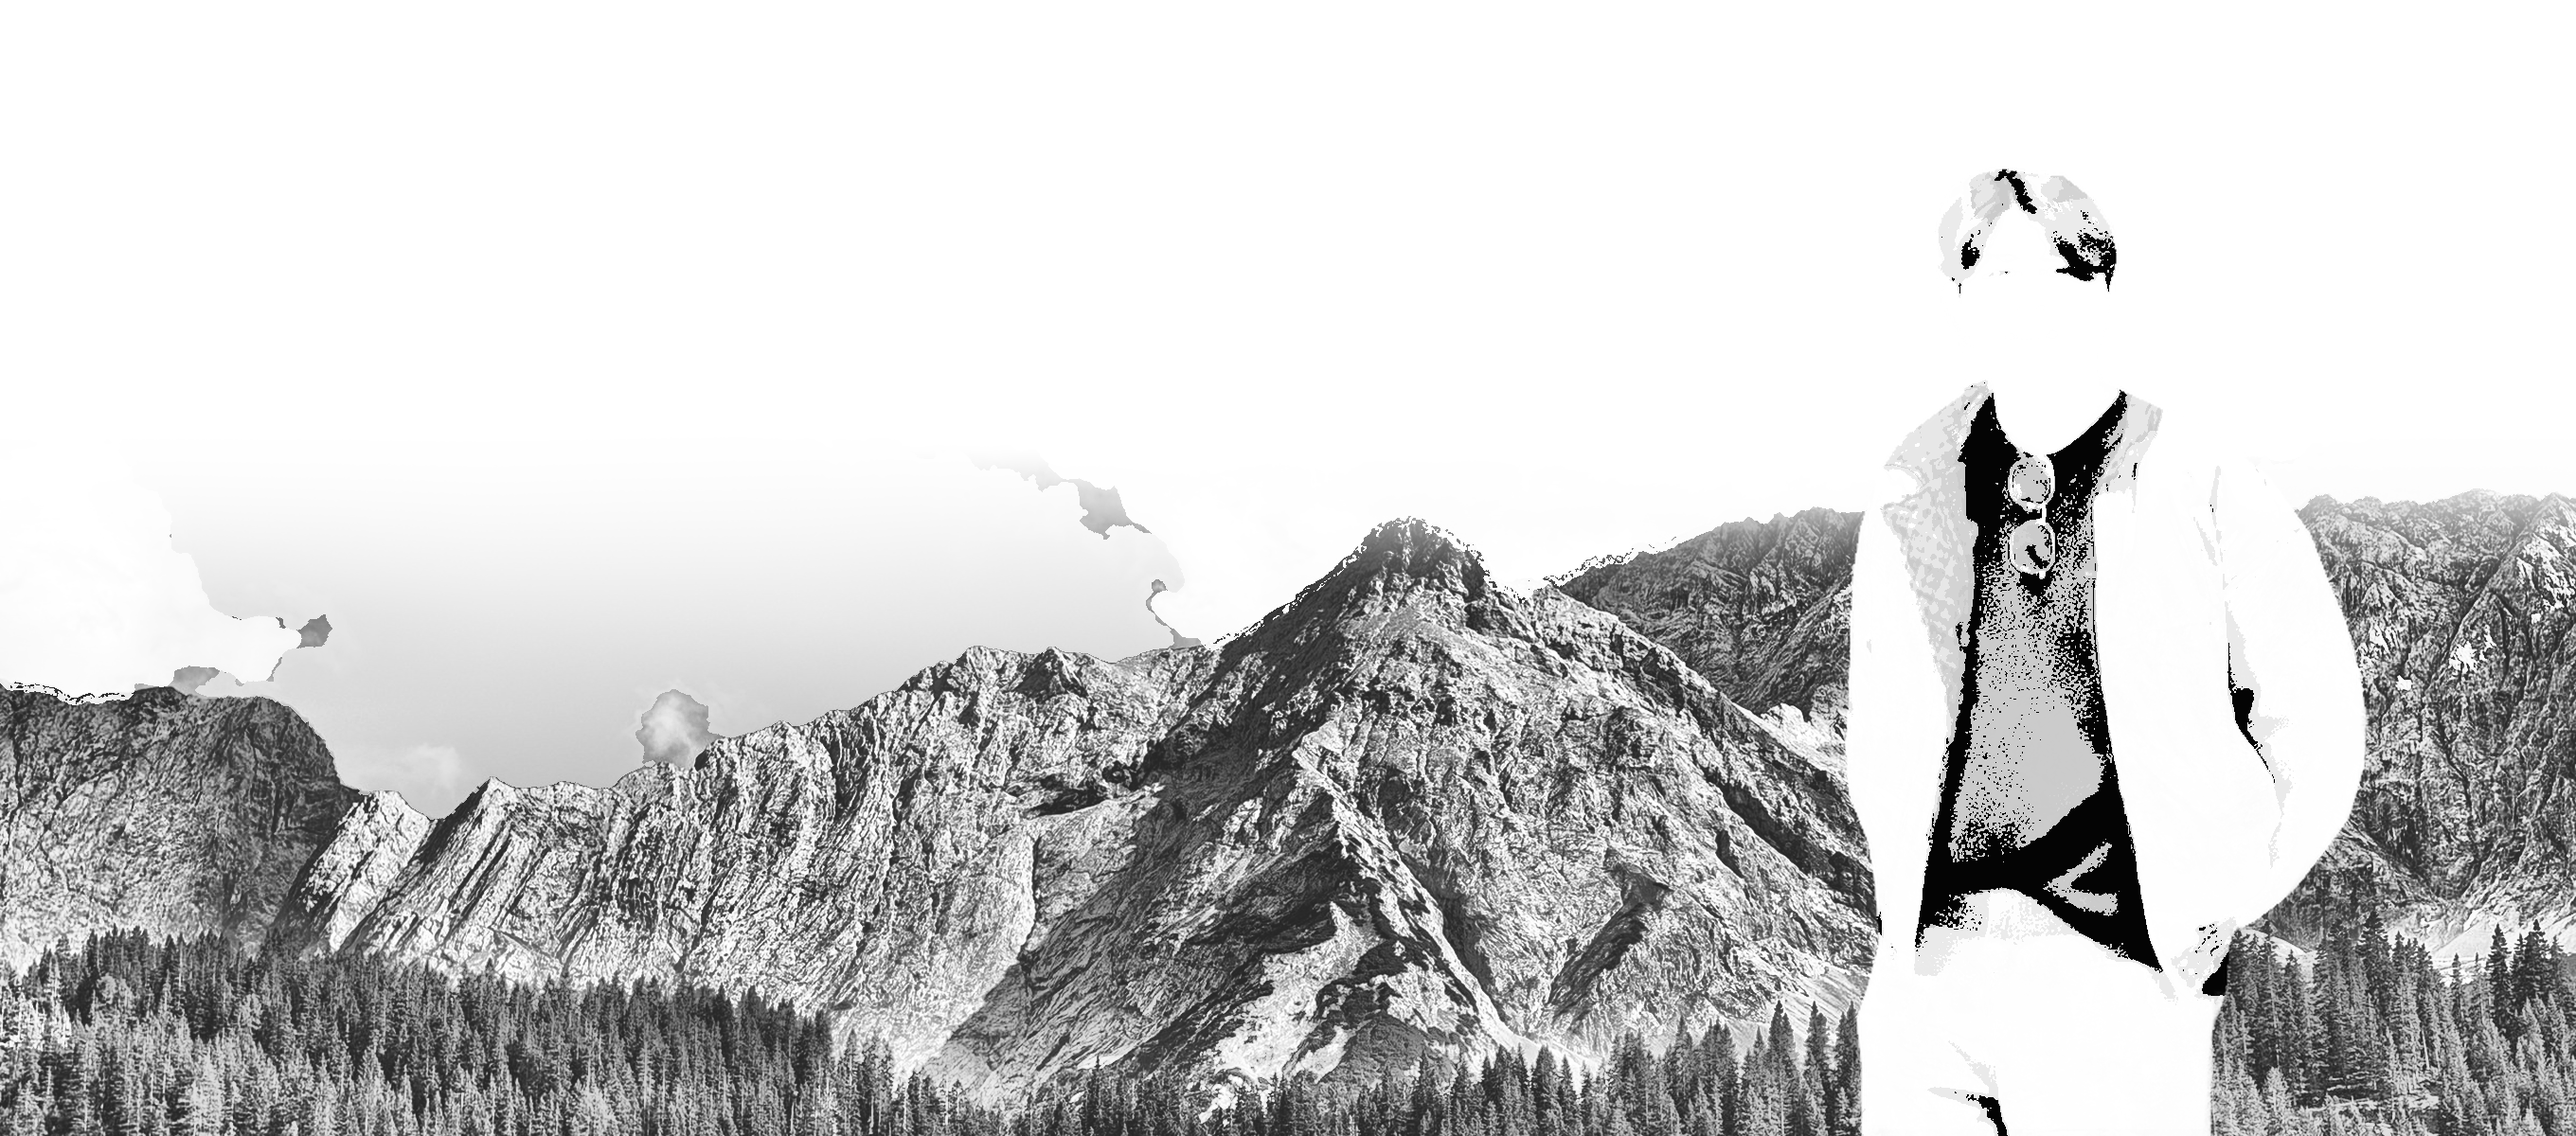
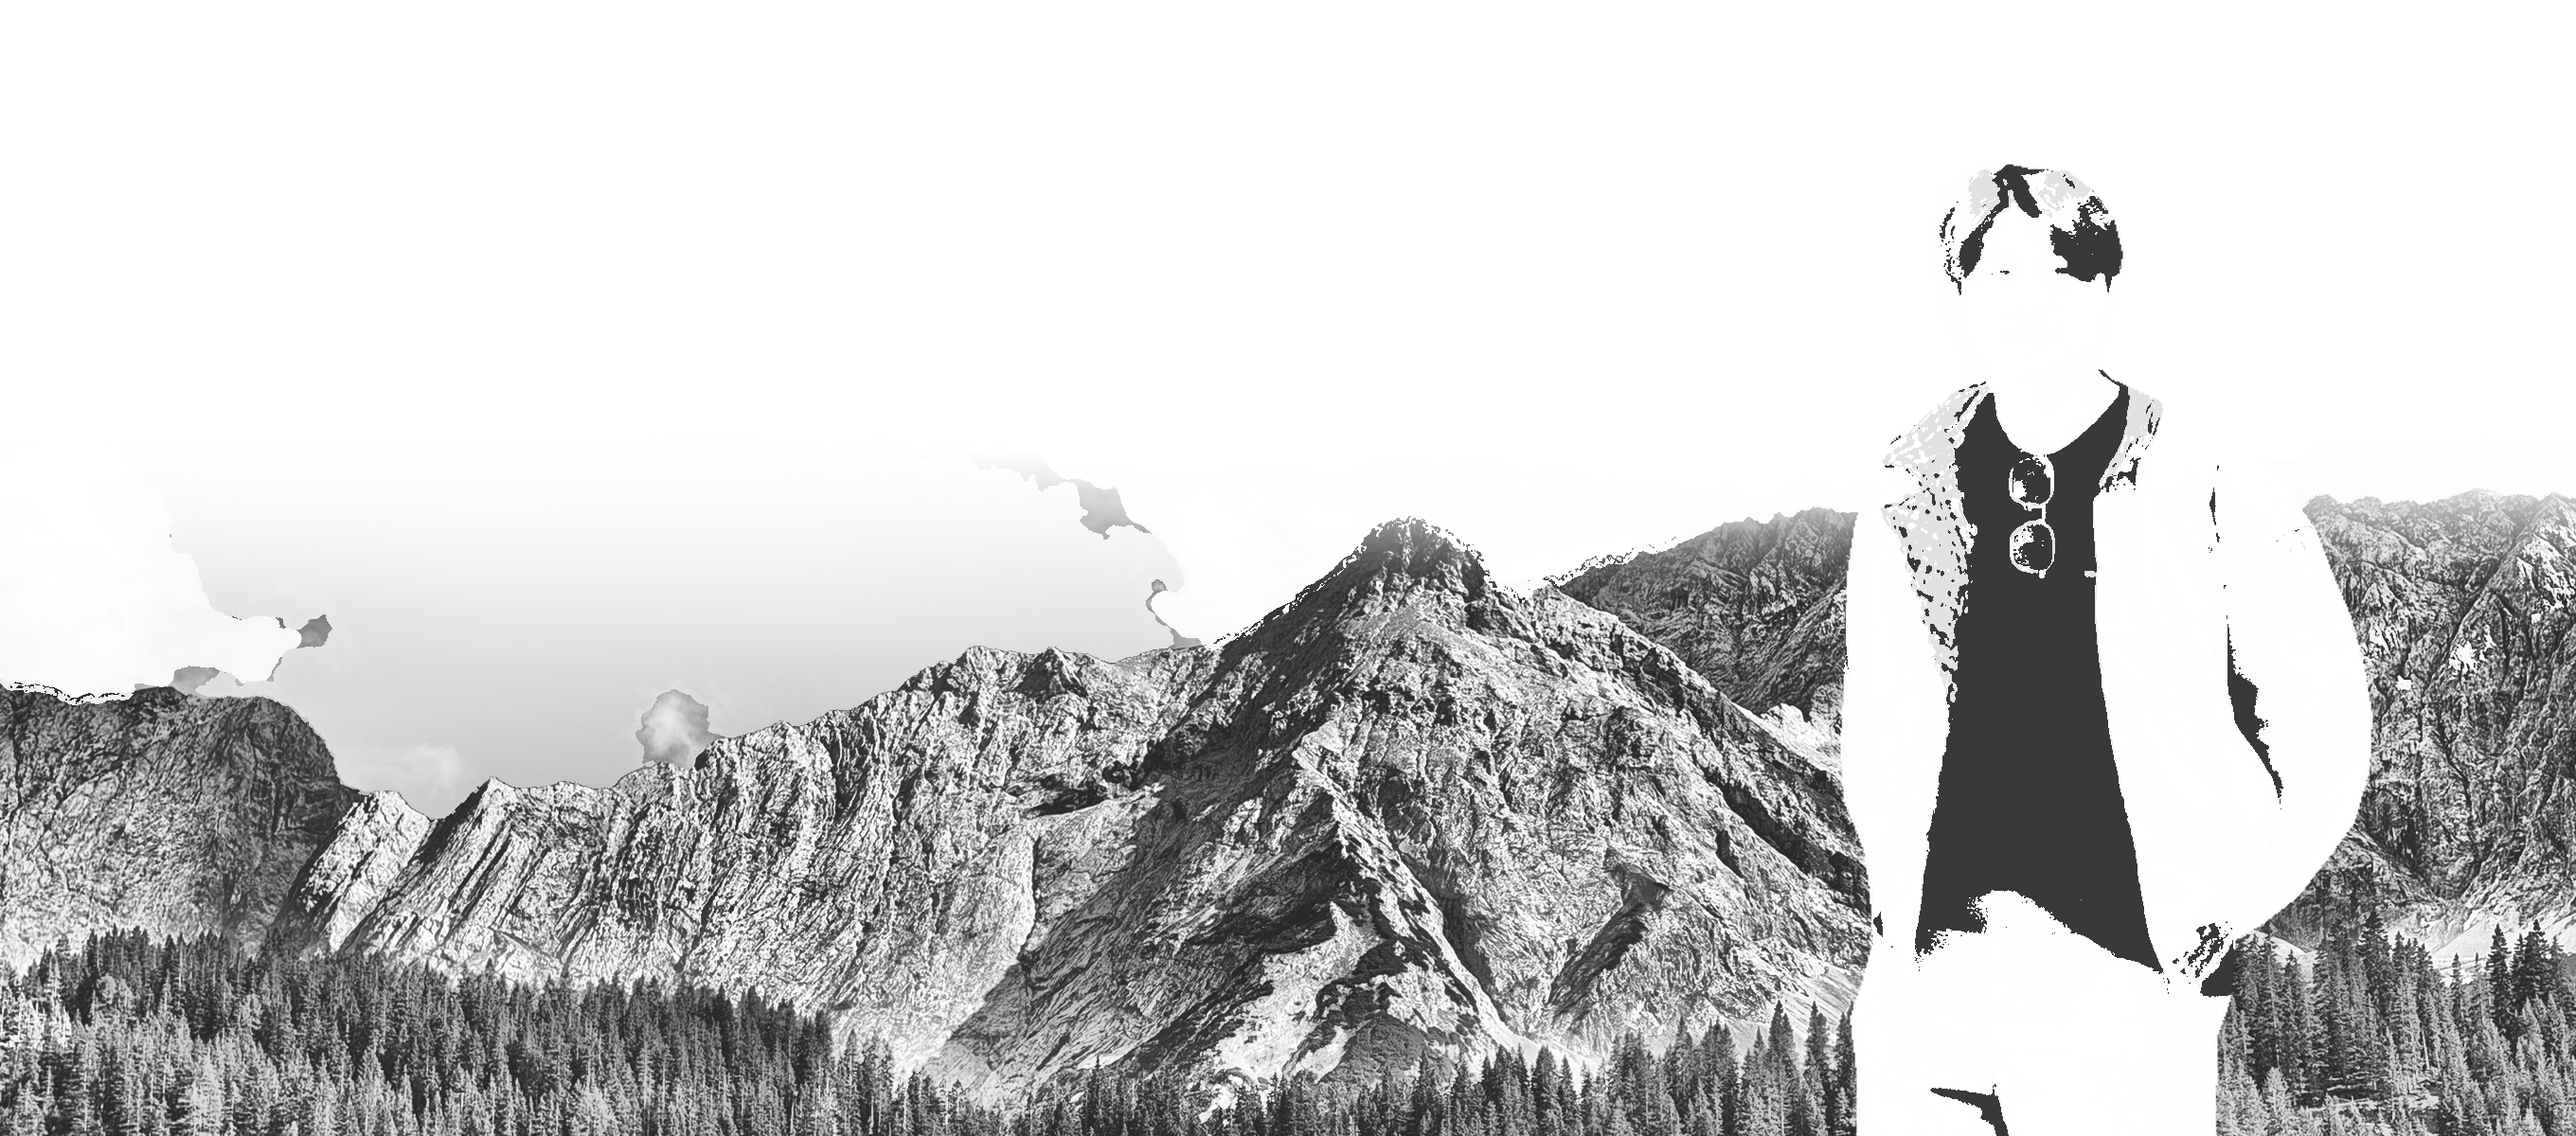
Four-ink landscape: full head, posterised person, medium screen
Use the approved cutout's matte as is (the rembg intersection and erosion
clipped the hair), posterise the person to 7 tones, and print the four-ink
trial on the medium 4px tier so the dots read as before.

Claude-Session: https://claude.ai/code/session_01AwCbWbsfmMjfusHVwzczHG

diff --git a/src/config/home-landscape.ts b/src/config/home-landscape.ts
@@ -19,6 +19,6 @@ export const homeLandscape={
  /** 'two-ink' (approved) or 'four-ink' (trial, 2026-10-25): plates from design/photo/home_landscape_4c.py. */
  separation:'two-ink' as 'two-ink'|'four-ink',
  fourInkPlates:'src/assets/home/landscape-4c',
- /** Four inks print on the fine tier: the face needs it (as the portrait, 2026-10-14). */
- fourInkScreen:'fine' as const,
+ /** Four inks keep the landscape's medium tier: the dots should read (user, 2026-10-25). */
+ fourInkScreen:'medium' as const,
 };

diff --git a/design/photo/home_landscape_4c.py b/design/photo/home_landscape_4c.py
@@ -13,7 +13,6 @@ per ink. The photo is first reduced to a few hundred colours (scikit-learn k-mea
 so only those are solved. Region recipes only set the per-ink costs:
   mountain  dark ink is expensive (it would turn the rock grey and heavy);
   person    blue is expensive on skin and jacket, dark is cheap for hair and the black shirt.
-The person's matte is refined with rembg so the cutout's orange halo does not print.
 """
 import json, pathlib, subprocess
 import numpy as np
@@ -98,17 +97,13 @@ plates[top:] = m * fade[..., None]
 cut = Image.open(root / L['personSource']).convert('RGBA')
 ph = round(H * L['placement']['height']); pw = round(ph * cut.width / cut.height)
 px, py = round(W * L['placement']['x'] - pw / 2), H - ph
-from rembg import remove, new_session
-on_white = Image.alpha_composite(Image.new('RGBA', cut.size, 'white'), cut).convert('RGB')
-refined = np.minimum(np.asarray(cut)[..., 3], np.asarray(remove(on_white, session=new_session('isnet-general-use'), only_mask=True)))
-from scipy import ndimage
-refined = ndimage.grey_erosion(refined, size=(7, 7))   # pull the matte inside the old cutout's warm fringe
-cut = Image.fromarray(np.dstack([np.asarray(cut)[..., :3], refined])).resize((pw, ph), Image.LANCZOS)
+cut = cut.resize((pw, ph), Image.LANCZOS)   # the approved cutout's own matte, uncut
 person = np.asarray(cut, np.float32) / 255
 alpha = person[..., 3:4]
 plab = color.rgb2lab(person[..., :3]); plab[..., 0] = exposure.equalize_adapthist(plab[..., 0] / 100, clip_limit=.015) * 100
 prgb = np.clip(color.lab2rgb(plab), 0, 1)   # local contrast so the face keeps its features
-pd = separate(poster(prgb, sat=1.2, gamma=1.1).reshape(-1, 3), cost=np.array([.03, .5, .03, .06]), n_colors=14, seed=7).reshape(ph, pw, 4)
+# Few flat tones (posterised), so the screen, not photographic gradation, carries the image.
+pd = separate(poster(prgb, sat=1.2, gamma=1.1).reshape(-1, 3), cost=np.array([.03, .5, .03, .06]), n_colors=7, seed=7).reshape(ph, pw, 4)
 x0, x1 = max(px, 0), min(px + pw, W); sx = x0 - px
 region = plates[py:py + ph, x0:x1]
 plates[py:py + ph, x0:x1] = region * (1 - alpha[:, sx:sx + x1 - x0]) + pd[:, sx:sx + x1 - x0] * alpha[:, sx:sx + x1 - x0]
